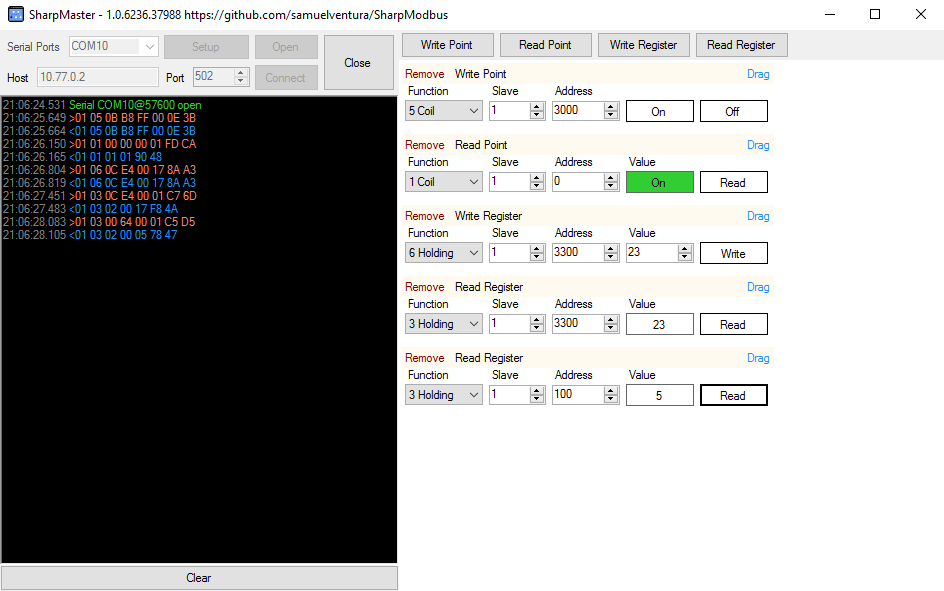
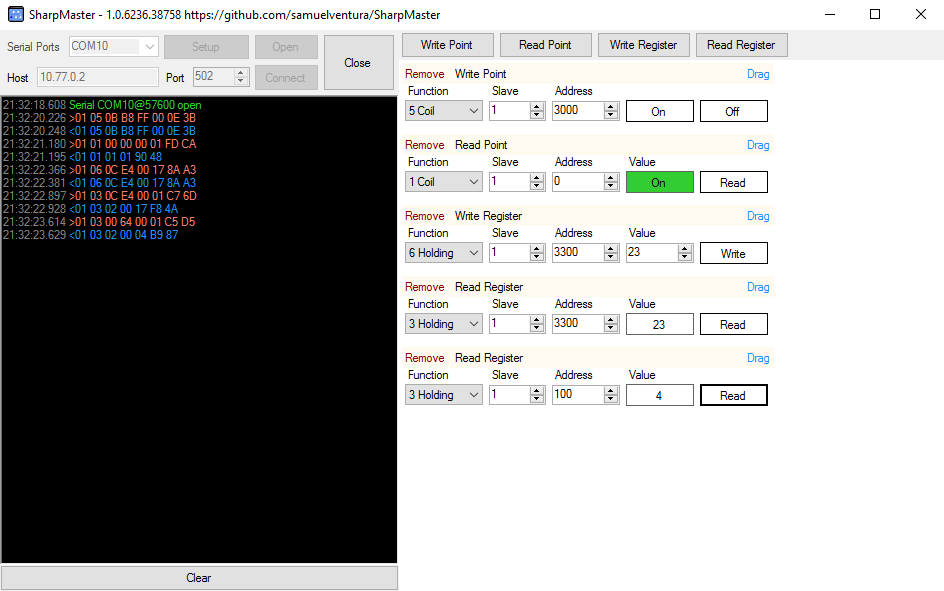
SharpMaster-RELEASE-1.0.6236.38758

diff --git a/SharpMaster/MainForm.cs b/SharpMaster/MainForm.cs
@@ -194,7 +194,7 @@ namespace SharpMaster
 					Log("error", "Error: {0}", ex.Message);
 				});
 			});
-			Text = string.Format("{0} - {1} https://github.com/samuelventura/SharpModbus", Text, Exe.VersionString());
+			Text = string.Format("{0} - {1} https://github.com/samuelventura/SharpMaster", Text, Exe.VersionString());
 			WrapRunner.Try(() => {
 				LoadSettings();
 			});
